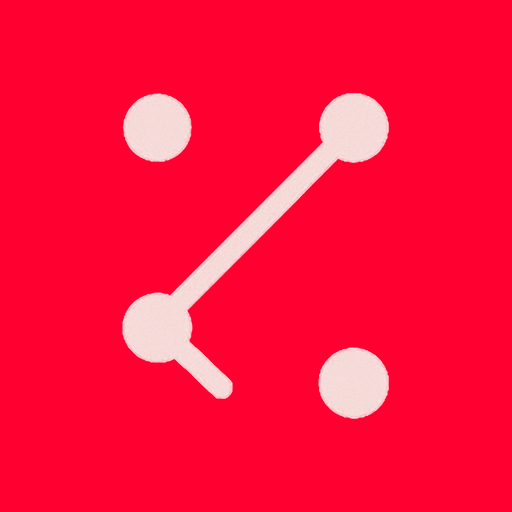
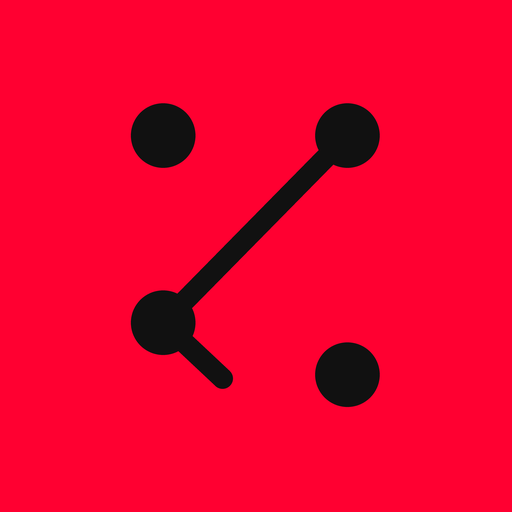
Íconos del sitio unificados con el isotipo oficial (negro sobre rojo)
- favicon, apple-touch-icon, icon-192 e icon-512 redibujados en vector desde
  el isotipo oficial. Antes los íconos grandes iban en crema sobre rojo y
  Google mostraba esa variante en los resultados.
- Se conservan las mismas rutas para que Google no pierda el favicon.
- El portafolio ahora declara favicon.
- Service worker a ludica-v9.

Claude-Session: https://claude.ai/code/session_017D4ZLTgxqmEWV9au1JED6r

Changed region(s): [[0.2188, 0.1562, 0.7812, 0.7812], [0.5938, 0.6562, 0.7812, 0.8438], [0.2188, 0.1562, 0.4062, 0.3438]]

diff --git a/portafolio/index.html b/portafolio/index.html
@@ -4,6 +4,8 @@
 <meta charset="utf-8">
 <meta name="viewport" content="width=device-width, initial-scale=1, viewport-fit=cover">
 <title>Alejandro Strauss · Art Director, Immersive & AI</title>
+<link rel="icon" type="image/png" href="../assets/favicon.png">
+<link rel="apple-touch-icon" href="../assets/apple-touch-icon.png">
 <meta name="description" content="Art direction for immersive experiences, museography and AI films. Mexico City.">
 <meta property="og:title" content="Alejandro Strauss · Art Director, Immersive & AI">
 <meta property="og:image" content="img/jinete_a.jpg">

diff --git a/sw.js b/sw.js
@@ -1,5 +1,5 @@
 /* Lúdica Lab — Service Worker: instalable + carga instantánea (cache-first). */
-const CACHE = 'ludica-v8';
+const CACHE = 'ludica-v9';
 const ASSETS = [
   './',
   './index.html',
